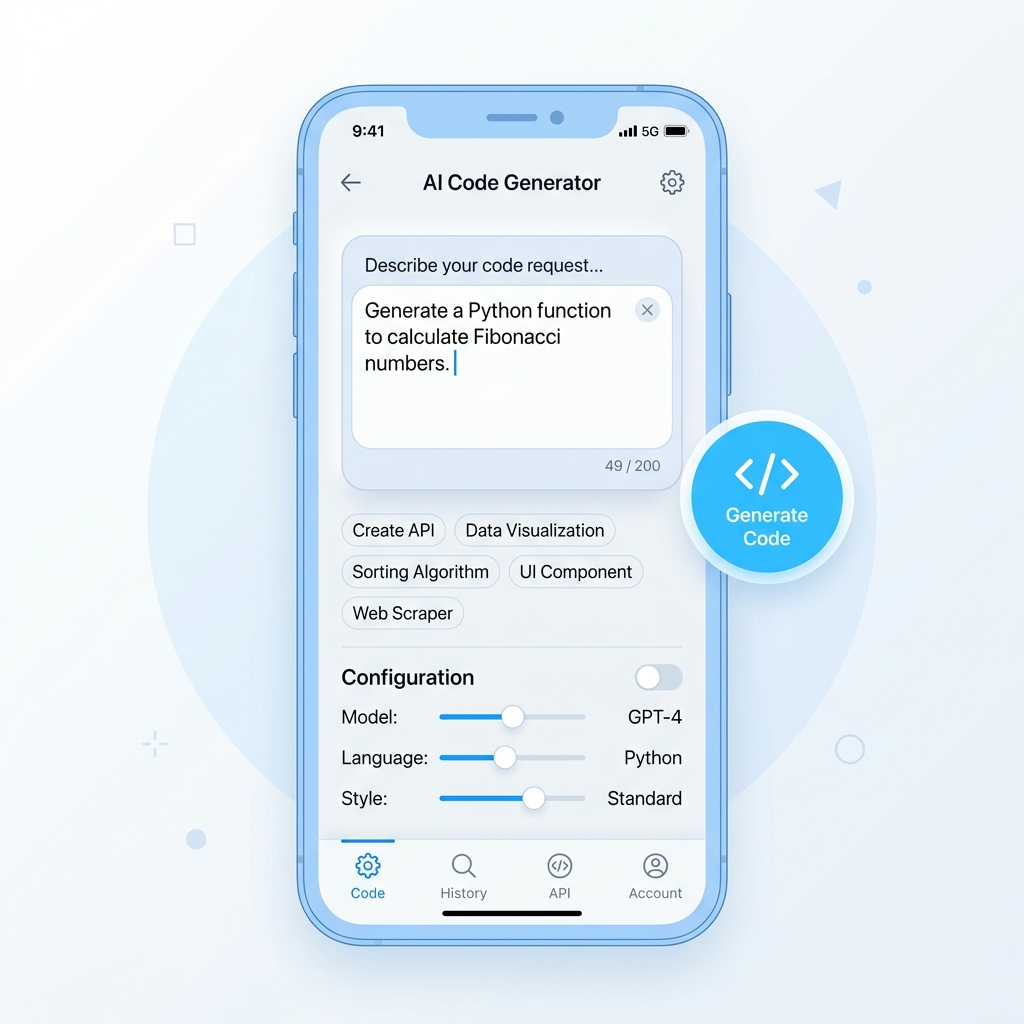
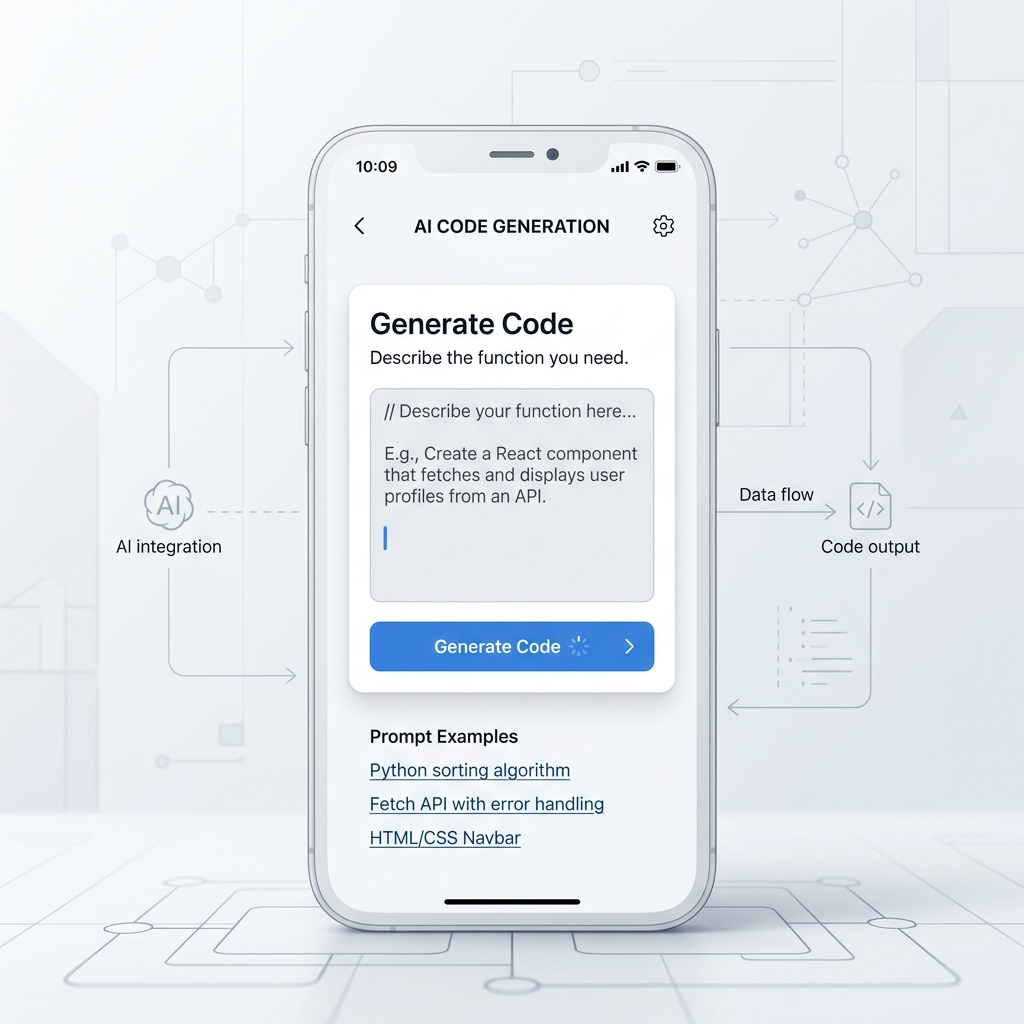
fix: resolve page jump auto-scroll bug and redesign Architectural Comparison section to match reference aesthetics

diff --git a/index.html b/index.html
@@ -1578,64 +1578,129 @@
   </div>
 
   <!-- COMPARISON -->
-  <section class="section bg-white">
+  <section class="section bg-[#fbfbfd]">
     <div class="container">
 
       <div class="max-w-4xl reveal">
         <div class="eyebrow mb-5">Architectural Comparison</div>
         <h2 class="section-title">
           Why not just use
-          <span class="muted">Remote Desktop?</span>
+          <span class="text-gray-400 font-normal">Remote Desktop?</span>
         </h2>
       </div>
 
-      <div class="card comparison-table mt-14 overflow-x-auto reveal">
-        <div class="comparison-row font-semibold text-sm bg-[#fafafa]">
-          <div>Capability</div>
-          <div class="proposed text-blue-600">Async Gateway</div>
-          <div>Cloud IDE</div>
-          <div>Remote Desktop</div>
-        </div>
+      <div class="mt-14 overflow-hidden border border-blue-100/80 rounded-[32px] bg-white shadow-xl shadow-blue-500/5 reveal">
+        <div class="overflow-x-auto">
+          <div class="min-w-[760px]">
 
-        <div class="comparison-row text-sm">
-          <div class="font-medium">Mobile-first interaction</div>
-          <div class="proposed check">✓ Strong</div>
-          <div class="partial">~ Partial</div>
-          <div class="no">— Weak</div>
-        </div>
+            <!-- Header Row -->
+            <div class="grid grid-cols-12 text-sm font-bold border-b border-gray-100 bg-gray-50/80">
+              <div class="col-span-4 p-5 md:p-6 text-gray-500 uppercase tracking-wider text-xs flex items-center">
+                Capability Matrix
+              </div>
+              <div class="col-span-3 p-5 md:p-6 bg-blue-50/80 text-blue-600 border-x border-blue-100/80 flex items-center justify-between">
+                <span>Async Gateway</span>
+                <span class="text-[10px] font-extrabold bg-blue-600 text-white px-2 py-0.5 rounded-full">PROPOSED</span>
+              </div>
+              <div class="col-span-3 p-5 md:p-6 text-gray-700 flex items-center">
+                Cloud IDE
+              </div>
+              <div class="col-span-2 p-5 md:p-6 text-gray-400 flex items-center">
+                Remote Desktop
+              </div>
+            </div>
 
-        <div class="comparison-row text-sm">
-          <div class="font-medium">Connection-independent execution</div>
-          <div class="proposed check">✓ Yes</div>
-          <div class="partial">~ Varies</div>
-          <div class="no">— No</div>
-        </div>
+            <!-- Row 1 -->
+            <div class="grid grid-cols-12 text-sm border-b border-gray-100/80 hover:bg-gray-50/50 transition">
+              <div class="col-span-4 p-5 md:p-6 font-bold text-gray-800 flex items-center">
+                Mobile-first interaction
+              </div>
+              <div class="col-span-3 p-5 md:p-6 bg-blue-50/40 border-x border-blue-100/60 font-bold text-emerald-600 flex items-center gap-2">
+                <span class="w-5 h-5 rounded-full bg-emerald-100 text-emerald-600 flex items-center justify-center text-xs font-bold">✓</span>
+                Native Control
+              </div>
+              <div class="col-span-3 p-5 md:p-6 text-amber-600 font-semibold flex items-center gap-2">
+                <span class="text-amber-500 font-bold">~</span> Partial / Heavy
+              </div>
+              <div class="col-span-2 p-5 md:p-6 text-gray-400 flex items-center gap-2">
+                <span class="text-gray-300">—</span> Touch Weak
+              </div>
+            </div>
 
-        <div class="comparison-row text-sm">
-          <div class="font-medium">Background long-running tasks</div>
-          <div class="proposed check">✓ Native</div>
-          <div class="partial">~ Supported</div>
-          <div class="no">— Session dependent</div>
-        </div>
+            <!-- Row 2 -->
+            <div class="grid grid-cols-12 text-sm border-b border-gray-100/80 hover:bg-gray-50/50 transition">
+              <div class="col-span-4 p-5 md:p-6 font-bold text-gray-800 flex items-center">
+                Connection-independent execution
+              </div>
+              <div class="col-span-3 p-5 md:p-6 bg-blue-50/40 border-x border-blue-100/60 font-bold text-emerald-600 flex items-center gap-2">
+                <span class="w-5 h-5 rounded-full bg-emerald-100 text-emerald-600 flex items-center justify-center text-xs font-bold">✓</span>
+                Persistent Jobs
+              </div>
+              <div class="col-span-3 p-5 md:p-6 text-amber-600 font-semibold flex items-center gap-2">
+                <span class="text-amber-500 font-bold">~</span> Varies by host
+              </div>
+              <div class="col-span-2 p-5 md:p-6 text-gray-400 flex items-center gap-2">
+                <span class="text-gray-300">—</span> Requires Stream
+              </div>
+            </div>
 
-        <div class="comparison-row text-sm">
-          <div class="font-medium">AI-native orchestration</div>
-          <div class="proposed check">✓ Core design</div>
-          <div class="partial">~ Platform specific</div>
-          <div class="no">— External</div>
-        </div>
+            <!-- Row 3 -->
+            <div class="grid grid-cols-12 text-sm border-b border-gray-100/80 hover:bg-gray-50/50 transition">
+              <div class="col-span-4 p-5 md:p-6 font-bold text-gray-800 flex items-center">
+                Background long-running tasks
+              </div>
+              <div class="col-span-3 p-5 md:p-6 bg-blue-50/40 border-x border-blue-100/60 font-bold text-emerald-600 flex items-center gap-2">
+                <span class="w-5 h-5 rounded-full bg-emerald-100 text-emerald-600 flex items-center justify-center text-xs font-bold">✓</span>
+                Cloud Workers
+              </div>
+              <div class="col-span-3 p-5 md:p-6 text-amber-600 font-semibold flex items-center gap-2">
+                <span class="text-amber-500 font-bold">~</span> Supported
+              </div>
+              <div class="col-span-2 p-5 md:p-6 text-gray-400 flex items-center gap-2">
+                <span class="text-gray-300">—</span> Session Locked
+              </div>
+            </div>
 
-        <div class="comparison-row text-sm">
-          <div class="font-medium">Repository automation</div>
-          <div class="proposed check">✓ Native</div>
-          <div class="check">✓ Available</div>
-          <div class="partial">~ Manual</div>
+            <!-- Row 4 -->
+            <div class="grid grid-cols-12 text-sm border-b border-gray-100/80 hover:bg-gray-50/50 transition">
+              <div class="col-span-4 p-5 md:p-6 font-bold text-gray-800 flex items-center">
+                AI-native agent orchestration
+              </div>
+              <div class="col-span-3 p-5 md:p-6 bg-blue-50/40 border-x border-blue-100/60 font-bold text-emerald-600 flex items-center gap-2">
+                <span class="w-5 h-5 rounded-full bg-emerald-100 text-emerald-600 flex items-center justify-center text-xs font-bold">✓</span>
+                Core Design
+              </div>
+              <div class="col-span-3 p-5 md:p-6 text-amber-600 font-semibold flex items-center gap-2">
+                <span class="text-amber-500 font-bold">~</span> Plugin Based
+              </div>
+              <div class="col-span-2 p-5 md:p-6 text-gray-400 flex items-center gap-2">
+                <span class="text-gray-300">—</span> External Tool
+              </div>
+            </div>
+
+            <!-- Row 5 -->
+            <div class="grid grid-cols-12 text-sm hover:bg-gray-50/50 transition">
+              <div class="col-span-4 p-5 md:p-6 font-bold text-gray-800 flex items-center">
+                Repository automation & push
+              </div>
+              <div class="col-span-3 p-5 md:p-6 bg-blue-50/40 border-x border-blue-100/60 font-bold text-emerald-600 flex items-center gap-2">
+                <span class="w-5 h-5 rounded-full bg-emerald-100 text-emerald-600 flex items-center justify-center text-xs font-bold">✓</span>
+                Automated Git
+              </div>
+              <div class="col-span-3 p-5 md:p-6 text-emerald-600 font-semibold flex items-center gap-2">
+                <span class="text-emerald-500 font-bold">✓</span> Available
+              </div>
+              <div class="col-span-2 p-5 md:p-6 text-amber-600 flex items-center gap-2">
+                <span class="text-amber-500 font-bold">~</span> Manual Terminal
+              </div>
+            </div>
+
+          </div>
         </div>
       </div>
 
-      <p class="text-xs muted mt-4">
-        Qualitative architecture comparison. Experimental validation will be
-        performed during project evaluation.
+      <p class="text-xs muted mt-5 text-center">
+        Qualitative architecture comparison. Experimental validation performed during baseline performance benchmarking.
       </p>
 
     </div>
@@ -2383,14 +2448,25 @@
       item.classList.remove("active");
     });
 
+    const navBar = document.getElementById("editorialNavBar");
     if (el) {
       el.classList.add("active");
-      el.scrollIntoView({ behavior: "smooth", inline: "center", block: "nearest" });
+      if (navBar) {
+        navBar.scrollTo({
+          left: el.offsetLeft - navBar.clientWidth / 2 + el.clientWidth / 2,
+          behavior: "smooth"
+        });
+      }
     } else {
       const items = document.querySelectorAll(".editorial-nav-item");
       if (items[stepNum - 1]) {
         items[stepNum - 1].classList.add("active");
-        items[stepNum - 1].scrollIntoView({ behavior: "smooth", inline: "center", block: "nearest" });
+        if (navBar) {
+          navBar.scrollTo({
+            left: items[stepNum - 1].offsetLeft - navBar.clientWidth / 2 + items[stepNum - 1].clientWidth / 2,
+            behavior: "smooth"
+          });
+        }
       }
     }
 
